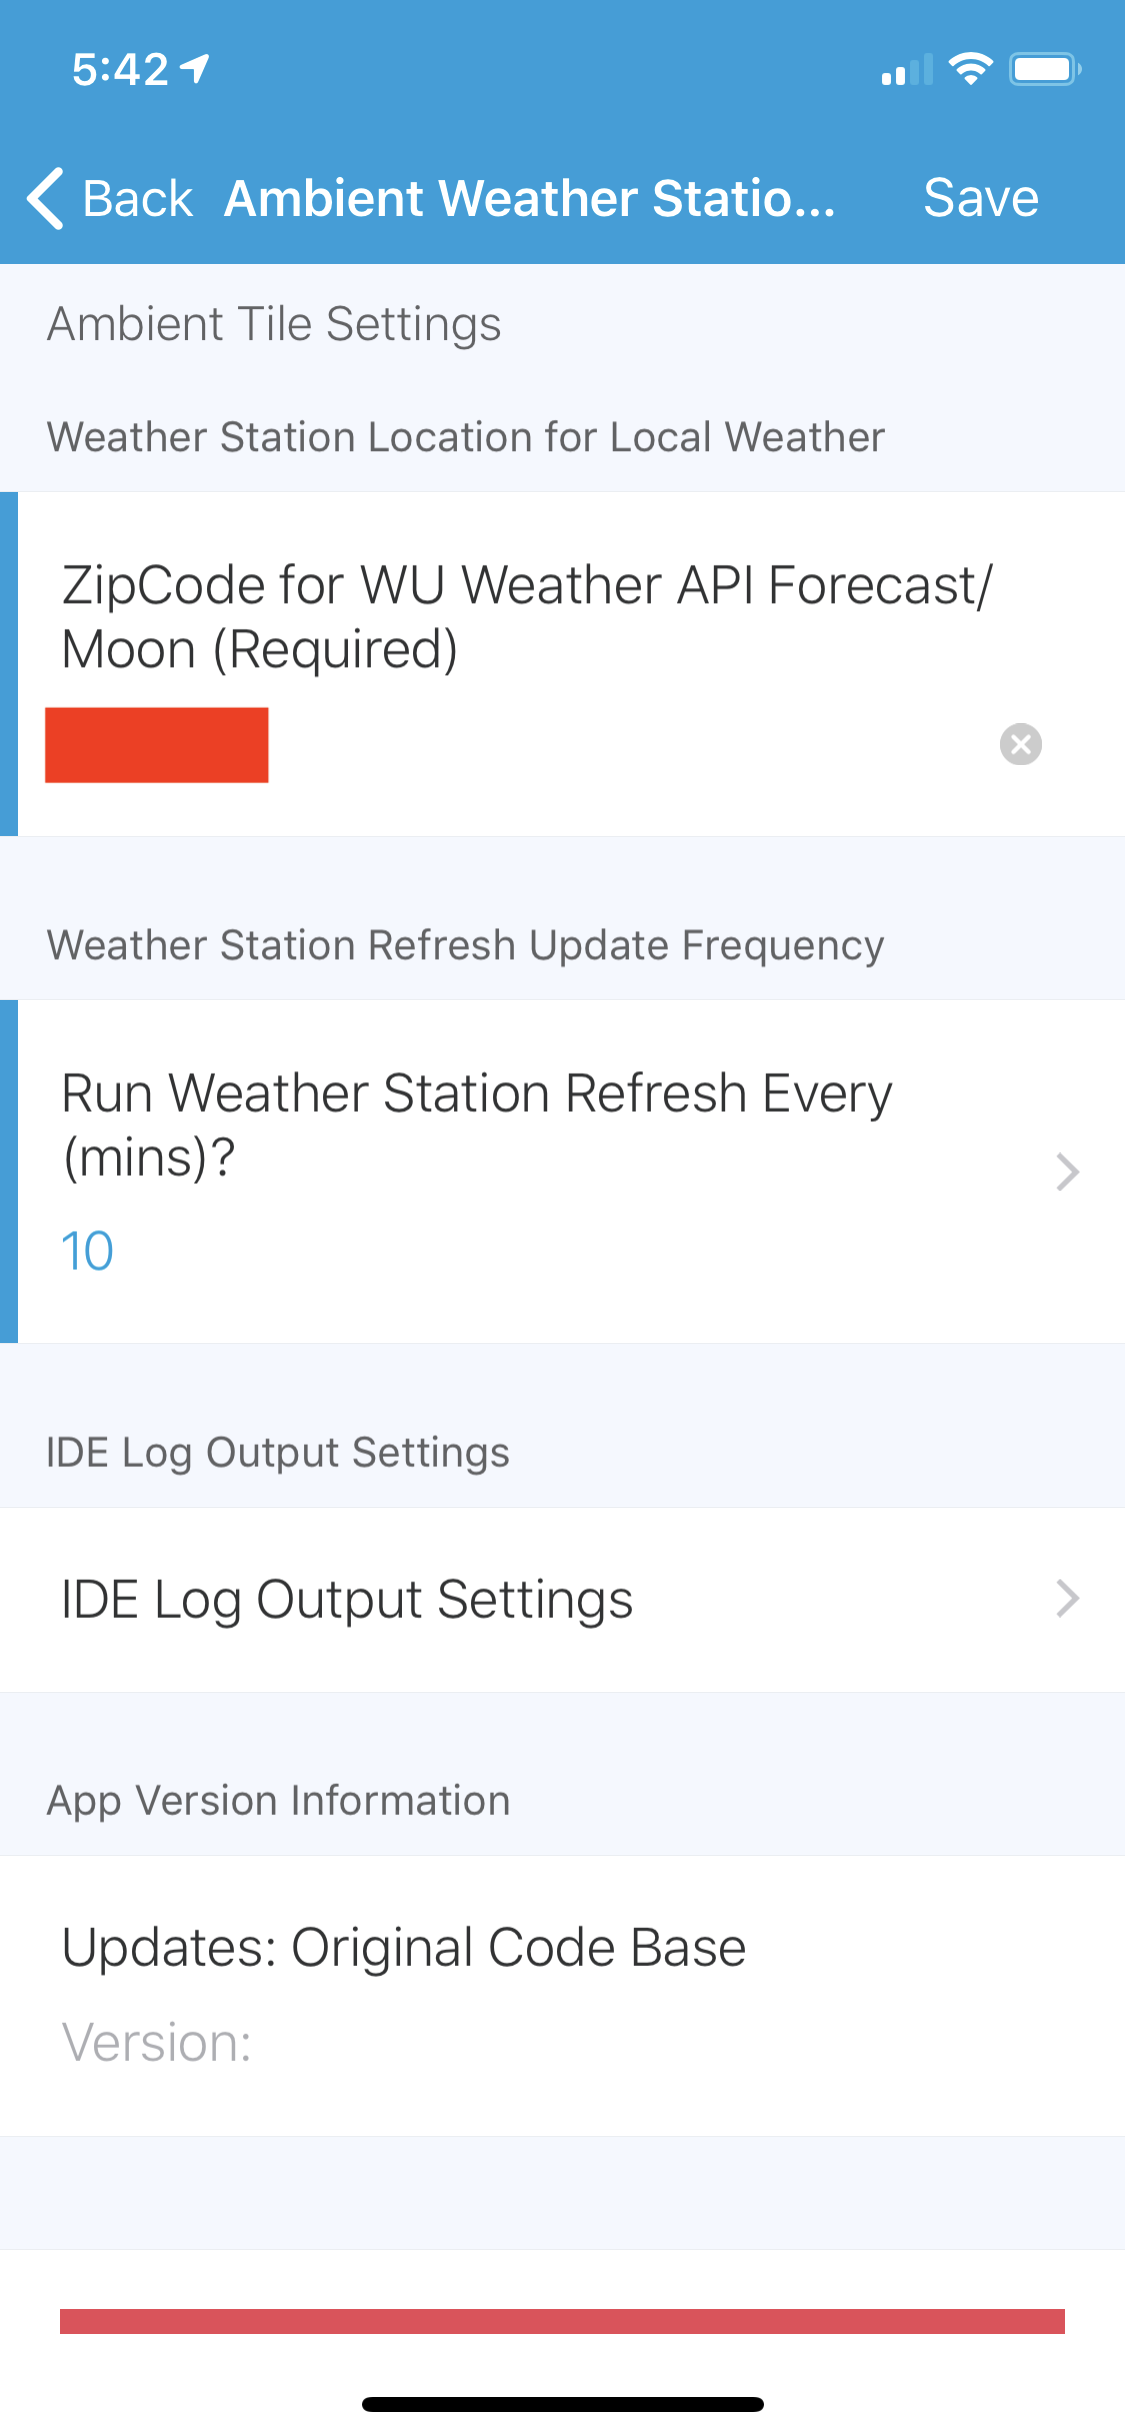
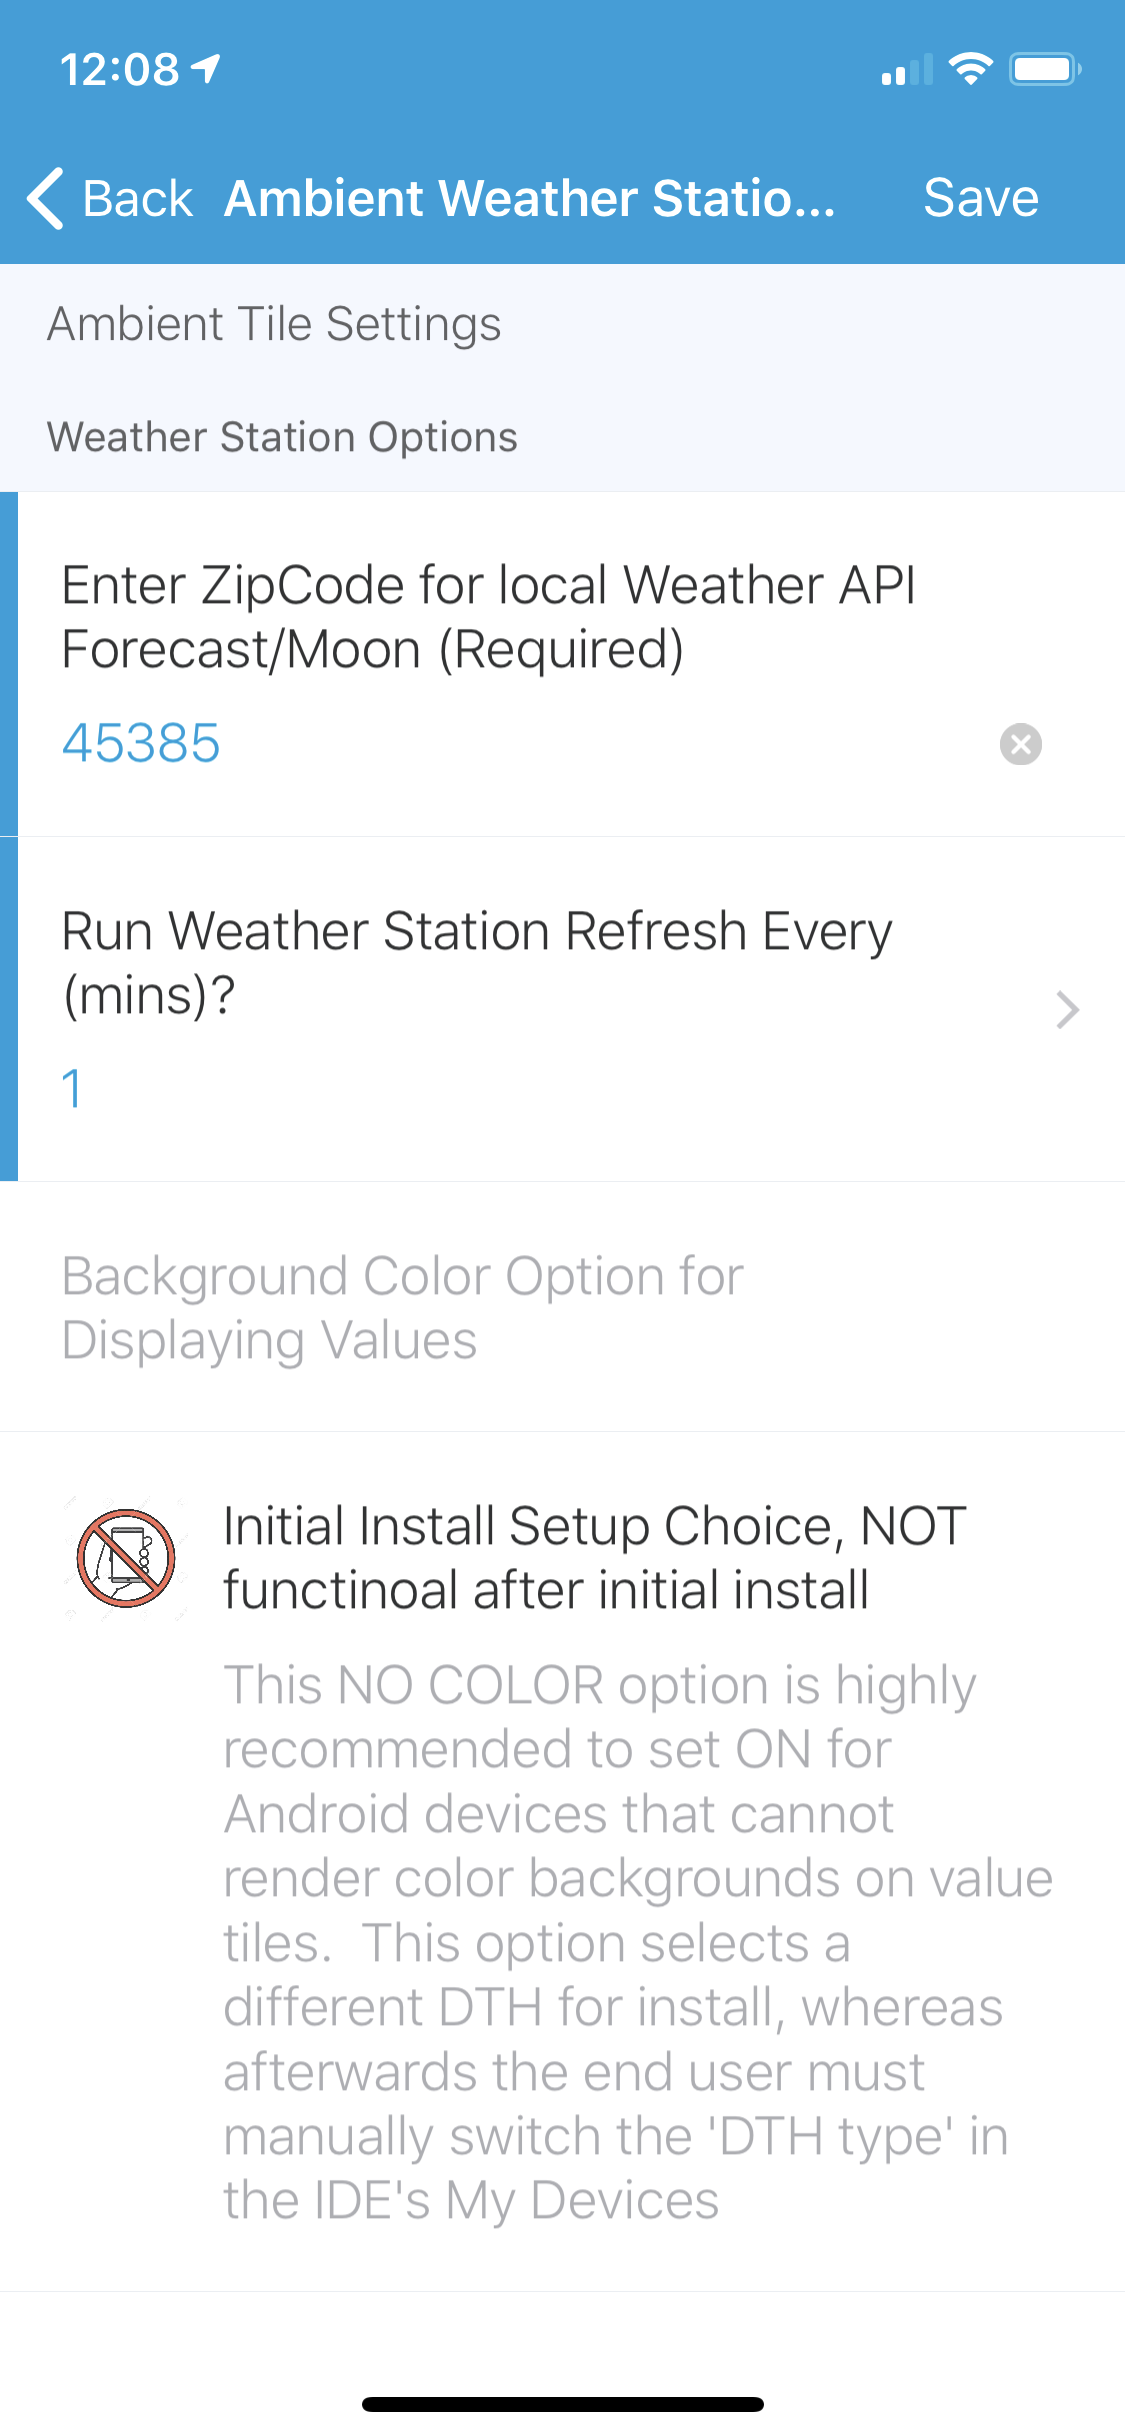
Updates for V3 Merge

diff --git a/README.md b/README.md
@@ -1,21 +1,29 @@
 # STAmbientWeather V3 (2019)
 *SmartThings Integration for Ambient Weather Stations*
 
-## Previous Versions
-* V2 Depreciated 12/01/2018
-* V1 Depreciated 06/01/2018
+### Description:
 
-## Description:
+A custom SmartThings SmartApp Service Manager and Device Handler (DTH) which provides a connection to the weather data generated from your personal [Ambient weather station](https://www.ambientweather.com/ambientnet.html).  
 
-A custom SmartThings SmartApp Service Manager and Device Handler (DTH) which provides a connection to the weather data generated from your personal [Ambient weather station](https://www.ambientweather.com/ambientnet.html).  This SmartThings application (V3) provides access to your [Ambientweather.net](https://ambientweather.net/) weather data via the [AmbientWeather API](https://ambientweather.docs.apiary.io/#).  The user can set the SmartThings Tile update/refresh rate of the weather data from either manual or automatic (1 min to 180 mins (3 hours)).
+This SmartThings application (V3) provides access to your [Ambientweather.net](https://ambientweather.net/) weather data via the [AmbientWeather API](https://ambientweather.docs.apiary.io/#).  The user can set the SmartThings Tile update/refresh rate of the weather data from either a manual or automatic refresh cycle (1 min to 180 mins (3 hours)).
 
-## Weather Station Tile and Details
+### Features Added in V3
+
+* Eliminated the need for end users to obtain a developers APP key from Ambient.  End users ONLY need their weather stations' API key.
+* Reduced complex nested menu trees during install to fix Android o/s install issues
+* Added a 'NO COLOR' option preference **during install** to accomodate Android background color display issues.
+ * Recognizes up to 8  Ambient (WH31B or similar) remote temperature/hyro sensor(s) as new child devices (separate SmartThing devices) for viewing and handling temperature and humidity events.  It is recommended to create a 'Room' called weather to group the weather station and remote sensors for ease of display.
+* Added lux preference display option for an additional Units of Measure for displaying Solar Radiation (Illuminance).
+* Added dynamic secondary control banner to the main temperature tile based on Feel Like, Rain, Wind or Humidity conditions.
+* Added additional error handling logic for inconsistencies in the weather API returned data.
+
+### Weather Station Tile and Details
 <p align="center">
 <img src="https://raw.githubusercontent.com/KurtSanders/STAmbientWeather/master/images/V3-MobileClient1.PNG" width="300">
 <img src="https://raw.githubusercontent.com/KurtSanders/STAmbientWeather/master/images/V3-MobileClient2.PNG" width="300">
 </p>
 
-## Remote Sensor Detail Tile
+### Remote Sensor Detail Tile
 <p align="center">
 <img src="https://raw.githubusercontent.com/KurtSanders/STAmbientWeather/master/images/V3-MobileClient3.PNG" width="300">
 </p>
@@ -23,7 +31,7 @@ A custom SmartThings SmartApp Service Manager and Device Handler (DTH) which pro
 ## Requirements:
 1. A personal [Ambient Weather Station](https://www.ambientweather.com/ambientnet.html) which connects to the Ambient Weather Network: (e.g. Model 2902A for example) and optionally  up to 8 Ambient remote temperature/hydro sensor(s).
 2. SmartThings Hub
-3. Supported mobile device with ST Legacy Client.  Installation **MUST** be completed on an Apple iOS device as the Android ST Client causes severe errors.  Android ST Client can view installed tiles after the Apple ST Client install. 
+3. Supported mobile device with ST Legacy Client.  Android based ST Clients are encouraged to select the NO COLOR option during install to view value tiles without color. 
 4. A working knowledge of the SmartThings IDE
 	* Installing a SmartApp & DTH from a GitHub repository (see [SmartThings GitHub IDE integration documentation](https://docs.smartthings.com/en/latest/tools-and-ide/github-integration.html?highlight=github) for example instructions and use the Repository Owner, Name and Branch from installation instructions below)
 5. Ambient Weather Station API Key (Required)
@@ -36,7 +44,7 @@ A custom SmartThings SmartApp Service Manager and Device Handler (DTH) which pro
 </p>
 
 		 
-## Installation & Configuration of the SmartThings DTH
+## Installation & Configuration
 
 **GitHub Repository Integration**
 
@@ -44,12 +52,21 @@ Create a new SmartThings Repository in the SmartThings IDE under 'Settings' with
 
 | Name | Value |
 |------|-------|
-|Owner | **KurtSanders** |
+|Owner | **kurtsanders** |
 |Name: | **STAmbientWeather**|
 |Branch| **master**|
 
-1. Add a new SmartApp & device handler ([See GitHub IDE integration](https://docs.smartthings.com/en/latest/tools-and-ide/github-integration.html?highlight=github)) from  the STAmbientWeather(master) repository.
-2. **Required Next Step:** You must edit the newly added Ambient Weather Station Reporter V3 SmartApp in the IDE SmartApps browser Tab 'App Settings' and enter your apiString (Your Ambient API Key).  Update/Save your changes.
+**Required Files in your SmartThings IDE Repository**
+
+| IDE Repository    | Filename |
+|-------------------|----------|
+| My SmartApps      | kurtsanders : Ambient Weather Station Service Manager V3   |
+| My Device Handler | kurtsanders : Ambient Weather Station V3<br>kurtsanders : Ambient Weather Station V3 No Color Tiles<br>kurtsanders : Ambient Weather Station Remote Sensor V3|
+
+**Instructions**
+
+1. Using the 'Update from REPO' button in the SmartThings IDE, Check the Ambient Weather Station Service Manager V3 SmartApp and publish & save.  Do the same from the "My Device Handlers" for the three (3) Ambient Weather device handlers ([See GitHub IDE integration](https://docs.smartthings.com/en/latest/tools-and-ide/github-integration.html?highlight=github)) from this STAmbientWeather(master) repository to your SmartThings IDE.
+2. **Required Next Step before setup on mobile client:** You must edit the newly added Ambient Weather Station Reporter V3 SmartApp in the IDE SmartApps browser Tab 'App Settings' and enter your apiString (Your Ambient API Key).  Update/Save your changes.
 3. Locate the Ambient Weather Station Reporter V3 app in the MarketPlace/SmartApps/My Apps list and click to launch the smartapp.
 <p align="center">
 <img src="https://raw.githubusercontent.com/KurtSanders/STAmbientWeather/master/images/V2-Ambient Weather Station.PNG" width="300">
@@ -63,6 +80,8 @@ Create a new SmartThings Repository in the SmartThings IDE under 'Settings' with
 	* Preferences
 		* zipCode	(Your Zipcode for Weather Forecast Info)
 		* schedulerFreq	(# mins for the APP to update weather values from your weather station)
+		* Remove Color Background in Tiles for Displaying Values *(Only functions during initial installation/setup)*
+		* Select Solar Radiation Units of Measure
 		* IDE Logging (Optional)
 			* debugVerbose	
 			* infoVerbose	bool	
@@ -78,11 +97,17 @@ The following device capabilities, attributes and commands are available for you
         capability "Relative Humidity Measurement"
         capability "Sensor"
         capability "Refresh"
-        capability "Motion Sensor"
         capability "Water Sensor"
         capability "Ultraviolet Index"
+    
+        // Wind Motion Detection
+        capability "Motion Sensor"
+        // Wind Speed Pseudo Capability
+        capability "Power Meter"
+        capability "Energy Meter"
 
-        // Start of Ambient Weather Attributes
+
+        // Start of Ambient Weather API Rest MAP
         attribute "baromabsin", "string"
         attribute "baromrelin", "string"
         attribute "city", "string"
@@ -109,12 +134,14 @@ The following device capabilities, attributes and commands are available for you
         attribute "winddir", "string"
         attribute "winddirection", "string"
         attribute "windgustmph", "string"
-        attribute "windspeedmph", "string"   
+        attribute "windspeedmph", "string"
         // End of Ambient Weather API Rest MAP
         attribute "moonAge", "number"
+        attribute "lastSTupdate", "string"
         attribute "localSunrise", "string"
         attribute "localSunset", "string"
         attribute "weatherIcon", "string"
+        attribute "secondaryControl", "string"
         attribute "forecastIcon", "string"
         attribute "scheduleFreqMin", "string"
         attribute "sunriseDate", "string"
@@ -122,17 +149,41 @@ The following device capabilities, attributes and commands are available for you
         attribute "alertDescription", "string"
         attribute "alertMessage", "string"
         attribute "version", "string"
-        attribute "lastSTupdate", "string"
-        
-        // Start of Ambient Weather Device Commands
-        command "refresh"
 
+        command "refresh"
+        
+## Action Tiles
+Only a subset of Ambient weather data can be viewed from Action Tiles. This is due to a limitation of Action Tiles software to support additional SmartThings published device capabilities.  
+<p align="center">
+<img src="https://raw.githubusercontent.com/KurtSanders/STAmbientWeather/master/images/ActionTilesColorTiles.jpg" width="300">
+</p>
+
+| Name of Action Tile Thing (Checkmark) | Ambient Weather Attribute |
+|------------|-------------------|
+| Energy<p>Power | Wind Speed |
+| Illuminance Measurement | Solar Radiation <br>Light |
+| Motion Sensor | Wind Speed > 0 Detected |
+| Relative Humidity Measurement | Outside Rel Humidity |
+| Temperature Measurement | Outside Temperature |
+| Ultraviolet Index | Ultraviolet Index |
+| Water Sensor | Rain Detected |
+
+<p align="center">
+<img src="https://raw.githubusercontent.com/KurtSanders/STAmbientWeather/master/images/ActionTilesV3Things.jpg" width="300">
+</p>
 
 ## Known Issues
 1. Units of measure shown on the DTH are set from your [Ambient Dashboard Unit Settings](https://dashboard.ambientweather.net/settings) and this ST application has only been tested using USA imperial units setting.
 2. Setting this application's Refresh rate to 1 minute may cause an occasional ST console debug log "excessive http requests" debug error from ST.  ST rate limits their external http calls to avoid blacklisting.  The application will re-send the Ambient Weather API http request when it encounters a ST rate limiting error.
 3. The V3 version is the ONLY supported release in 2019.  Please upgrade previous versions if you desire new features, bug fixes, etc. 
-4. The V2 application was developed to be a cooperative SmartThings Service Manager SmartApp & Device Tile.  If one prefers a DTH Only, this Ambient Weather Station application written for V1 (device handler (DTH) only tile with preferences set in the device gear), V1 is available in the Github repository and can be installed to the IDE's 'My Device Handlers'.  One must manually create a new device in the IDE's 'My Devices' and refer to this DTH.
+4. Android o/s mobile devices render data values much better with the **NO COLOR** preference option selected ON during installation.  If one desires to change to a COLOR or NO COLOR background tile mode, they must do so in the ST IDE in My Devices by changing the DTH name for that device accordingly (See Table above for filenames of DTH's for this V3 release).  One can always remove and re-install the application and select the correct NO COLOR Option as well.
+
+## Previous Old Versions
+*(Available in 'Depreciated Versions' GitHub Branch)*
+
+	- V2 Depreciated 12/01/2018 
+	- V1 Depreciated 06/01/2018
+
 
 
 
